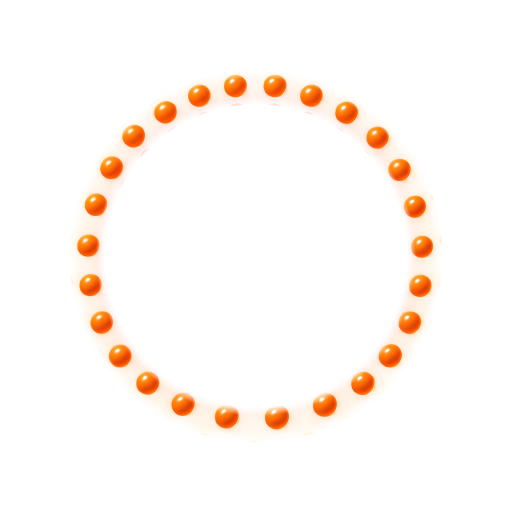
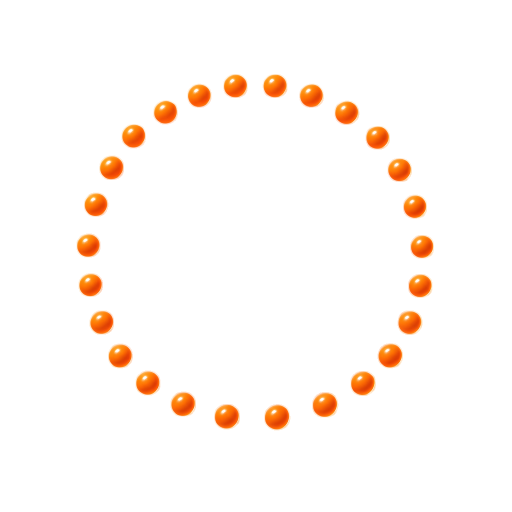
sun: the rings carried the haze, and the haze was spinning
Three things he caught on a phone, and the third is the root of the first two.

A STATIC ARC ACROSS A MOVING HALO. The layers were split by RADIUS, so each
ring carried everything in its band - including the soft haze between the beads.
That haze is not rotationally symmetric; it holds the render's own light and
shadow. Spin it against a body that does not move and the seam shows. Measured
inside the bands: 54%, 17% and 2% of them sit at alpha 50-100 - that is the
haze - against 35%, 35% and 28% above 230, which are the beads. Only 1-3% lies
between, so they separate cleanly.

CUTTING AT A FIXED RADIUS DID NOT WORK EITHER, and the attempt is worth
recording. Moving ring 1's inner edge to the measured trough at 253 removed the
body's rim light from it but sliced the bottom beads in half - the rings are
NOT perfectly concentric in the render, so no circle separates them. Each bead
is now found as a connected blob outside the body and assigned whole to
whichever ring its centre is nearest, with long thin blobs rejected so the rim
light cannot pass as one. It finds 26, 26 and 27. The original spec is 26 per
ring, which is an independent check I did not write.

The ring layers fell from ~350KB to ~45KB, because they are beads now and not
beads plus fog, and the composite is closer to the source than before: mean
0.50/255 against 2.01.

THE CLOSE-UPS ARE CROPPED FILES, not a 300% image shifted by calc(). The CSS
[…]

diff --git a/dev/look/sun-model-sheet.html b/dev/look/sun-model-sheet.html
@@ -100,9 +100,12 @@
     box-shadow:-2px -2px 6px var(--nu-lit),3px 4px 10px var(--nu-shade-soft)}
   .det b{display:block;font-size:12px;font-weight:800;margin-bottom:4px}
   .det span{font-size:11px;line-height:1.62;color:var(--muted)}
-  .det .zoom{height:112px;border-radius:11px;margin-bottom:9px;overflow:hidden;position:relative;
+  /* the close-ups are cropped FILES now, not a scaled image shifted by calc().
+     The CSS version stretched them - the window is 264x112 and the source is
+     square - and framed a sliver of one eye instead of the pair. */
+  .det .zoom{border-radius:11px;margin-bottom:9px;overflow:hidden;
     box-shadow:inset 2px 3px 6px var(--nu-shade-soft)}
-  .det .zoom img{position:absolute;width:300%;height:300%;max-width:none}
+  .det .zoom img{display:block;width:100%;height:auto}
   @media (max-width:760px){.top,.geo{grid-template-columns:1fr}h1{font-size:40px}}
   @media (prefers-reduced-motion:reduce){.sun img{animation:none}}
 </style>
@@ -214,6 +217,13 @@
     לזוז: הגוף לא מסתובב לעולם, כי סיבוב שלו היה הופך את העיניים. הטבעות
     מסתובבות בקצבים שונים — 22, 30 ו‑40 שניות בדף הזה — ולכן הן נפרדות ונאספות
     במקום לנוע כדיסק מודפס אחד.<br>
+    <b>ושכבת טבעת מכילה חרוזים ותו לא.</b> הגרסה הראשונה חתכה לפי רדיוס, אז כל
+    טבעת נשאה גם את <b>הערפל שבין החרוזים</b> — וערפל הוא לא סימטרי סביב המרכז,
+    הוא מחזיק את האור והצל של הרנדר. כשהוא הסתובב מול גוף שלא זז, נראתה קשת
+    סטטית על הילה נעה. <b>זה היה באג אמיתי.</b> עכשיו כל חרוז מזוהה כגוף מחובר
+    ומשויך שלם לטבעת שמרכזו הכי קרוב אליה, כי הטבעות ברנדר <b>אינן קונצנטריות
+    לגמרי</b> ורדיוס קבוע חתך חרוזים לשניים. המספר שמאשר את זה: <b>26, 26
+    ו‑27 חרוזים</b> — והמפרט המקורי הוא 26 לטבעת.<br>
     <b>ושלוש התנועות שנבחרו</b> — הטבעות מאחרות אחרי הגוף, כל מעגל לכיוון אחר
     כשהוא חושב, ותגובה ללחיצה — <b>כולן קוד, לא רנדר</b>, כי כולן תלויות במה
     שהמשתמשת עשתה רגע קודם.
@@ -231,6 +241,17 @@
 
   <h2>פרטי עיצוב</h2>
   <div class="details" id="det"></div>
+
+  <h2>מה עוד פתוח</h2>
+  <div class="note">
+    <b>1 · אין שם.</b> השורה הראשונה במפרט. זה לא פרט — דמות בלי שם קשה לדבר
+    עליה.<br>
+    <b>2 · הפוזות.</b> 2 מתוך 6, והמספרים למעלה. צריך סבב נוסף.<br>
+    <b>3 · ההבעות.</b> העיניים בהן גבוהות פי שתיים מהמקור והפירוט כמחצית, כי שש
+    דמויות חלקו תמונה אחת. <b>הדרך הנכונה היא לצייר את העיניים בקוד על הכדור
+    המלא</b> — ניסיתי ועצרתי באמצע, והניסיון הזה לא בדף.<br>
+    <b>4 · הדמות עצמה עוד לא באפליקציה</b>, חוץ מהאייקון של dev.
+  </div>
 
   <div class="note" style="margin-top:34px">
     <b>הגיליון הזה הוא דף ולא תמונה, וזאת החלטה ולא נוחות.</b> הרפרנס ששלחת
@@ -264,16 +285,15 @@ PAL.forEach(function(p){
 
 /* close-ups, by scaling the source inside a small window */
 var DET = [
-  {x:'34%', y:'30%', t:'העיניים', s:'83 על 169 פיקסל, <b>#2f180a</b>, עם נצנוץ עליון גדול ושני קטן מתחתיו. היחס שניים לאחד הוא מה שמבדיל בין עין לנקודה.'},
-  {x:'50%', y:'72%', t:'אור השפה', s:'סהרון חמים בקצה הרחוק מהאור. <b>זה הרמז החזק ביותר שמשהו עגול</b>, והוא מה שהיה חסר לדמות לפני הרנדר הזה.'},
-  {x:'16%', y:'20%', t:'הכדורים', s:'כל חרוז הוא כדור קטן עם הדגשה משלו. <b>זה מה שיוצר את האפקט המעגלי</b> — ולא הטבעות עצמן.'},
-  {x:'76%', y:'50%', t:'המרווח', s:'בין הגוף לטבעת הראשונה יש רווח אמיתי — אלפא צונחת מ‑252 ל‑21 ועולה חזרה. <b>הטבעות לא נוגעות בו ולא זו בזו.</b>'}
+  {f:'crop-eyes', t:'העיניים', s:'83 על 169 פיקסל, <b>#2f180a</b>, עם נצנוץ עליון גדול ושני קטן מתחתיו. היחס שניים לאחד בגובה מול רוחב הוא מה שמבדיל בין עין לנקודה.'},
+  {f:'crop-rim', t:'אור השפה', s:'סהרון חמים בקצה הרחוק מהאור. <b>זה הרמז החזק ביותר שמשהו עגול</b>, והוא מה שהיה חסר לדמות עד הרנדר הזה.'},
+  {f:'crop-beads', t:'הכדורים', s:'כל חרוז הוא כדור קטן עם הדגשה משלו. <b>זה מה שיוצר את האפקט המעגלי</b> — ולא הטבעות עצמן.'},
+  {f:'crop-gap', t:'המרווח', s:'בין הגוף לטבעת הראשונה יש רווח אמיתי. הכיסוי צונח מ‑89% ל‑<b>19% ברדיוס 253</b> ועולה חזרה — <b>ושם בדיוק עובר הגבול בין שכבת הגוף לשכבת החרוזים.</b>'}
 ];
 var det = document.getElementById('det');
 DET.forEach(function(o){
   var d = document.createElement('div'); d.className = 'det';
-  d.innerHTML = '<div class="zoom"><img src="../../character/sun-source.png" alt="" ' +
-    'style="left:calc(50% - ' + o.x + ' * 3);top:calc(50% - ' + o.y + ' * 3)"></div>' +
+  d.innerHTML = '<div class="zoom"><img src="sun-gen/' + o.f + '.png" alt=""></div>' +
     '<b>' + o.t + '</b><span>' + o.s + '</span>';
   det.appendChild(d);
 });
